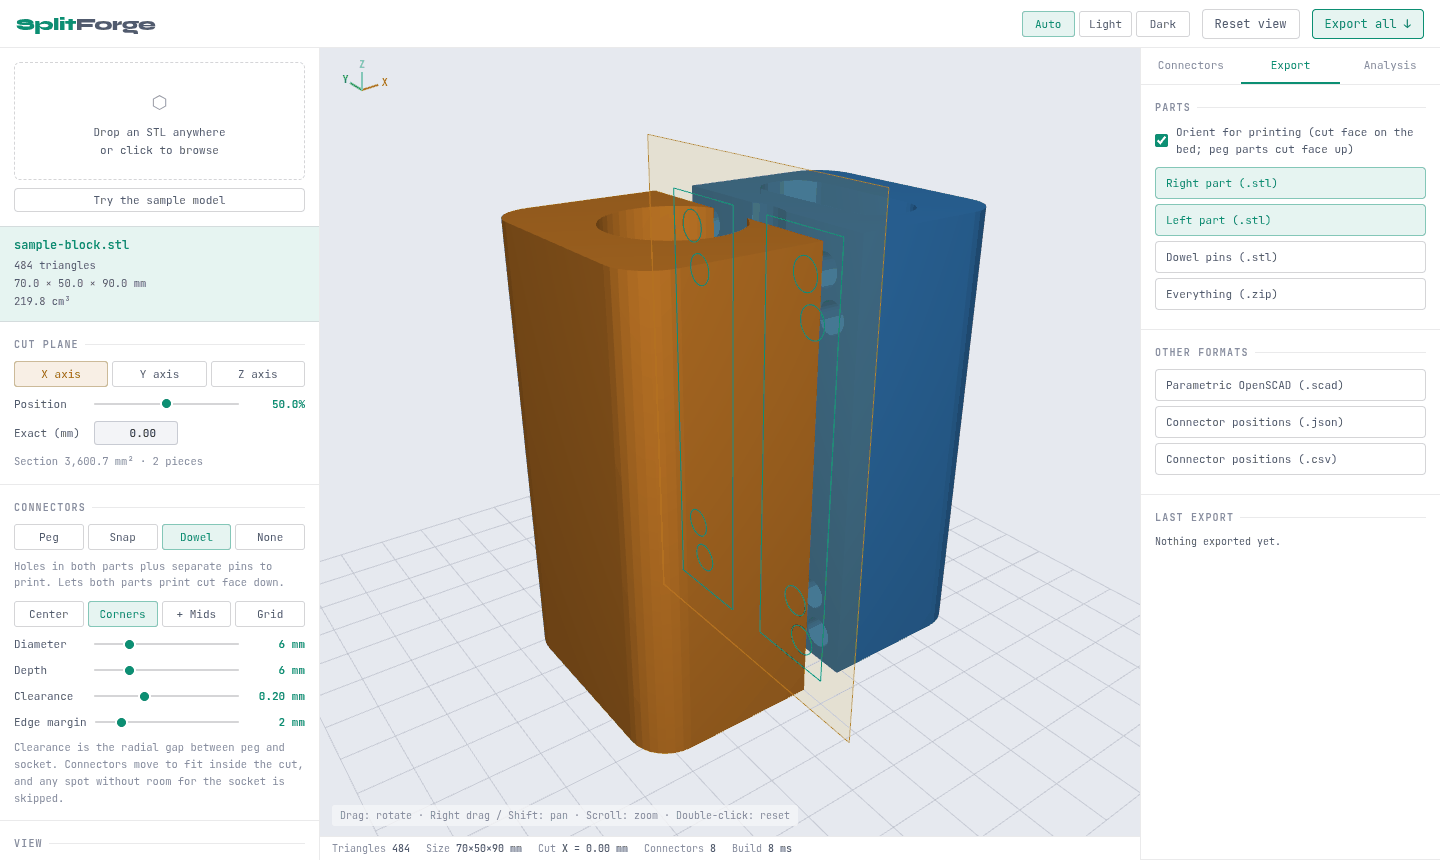
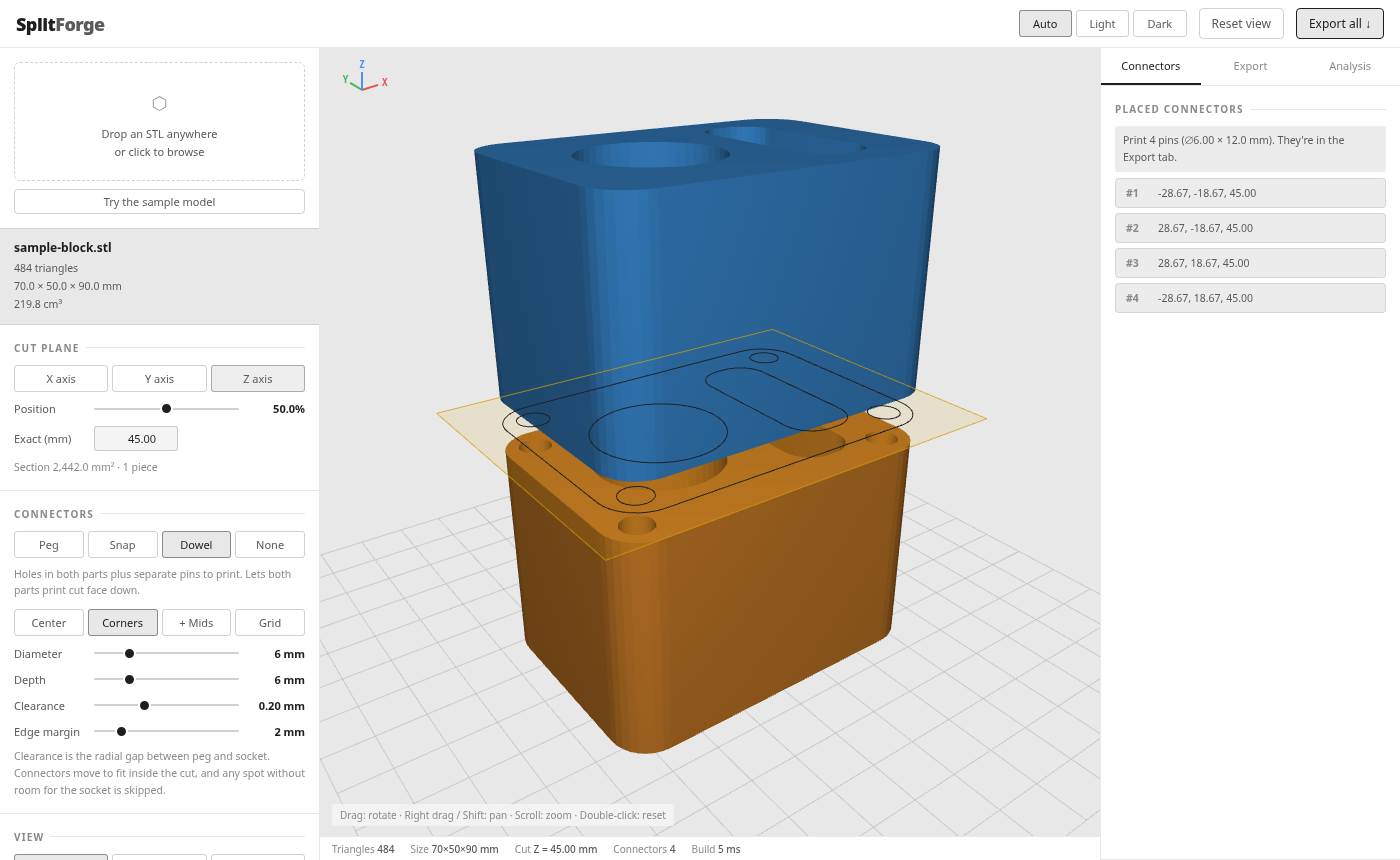
Go monochrome with the system font
Accents and tinted backgrounds become neutral, and Google Fonts is gone. Part,
cut plane and overhang colours stay fixed because they carry meaning.

diff --git a/index.html b/index.html
@@ -10,49 +10,46 @@
   // Apply the saved theme before first paint to avoid a flash of the wrong one.
   try { const t = localStorage.getItem('splitforge-theme'); if (t === 'light' || t === 'dark') document.documentElement.setAttribute('data-theme', t); } catch {}
 </script>
-<link rel="preconnect" href="https://fonts.googleapis.com">
-<link rel="preconnect" href="https://fonts.gstatic.com" crossorigin>
-<link href="https://fonts.googleapis.com/css2?family=JetBrains+Mono:wght@400;500;600&family=Syne:wght@600;700;800&display=swap" rel="stylesheet">
 <style>
 :root {
   color-scheme: light;
-  --bg: #f3f4f7; --bg2: #ffffff; --bg3: #eceef3;
-  --border: rgba(20, 24, 36, 0.09); --border2: rgba(20, 24, 36, 0.18);
-  --accent: #0b8f72; --accent-soft: rgba(11, 143, 114, 0.1); --accent-line: rgba(11, 143, 114, 0.45);
-  --accent2: #b86200; --accent2-soft: rgba(184, 98, 0, 0.1); --accent2-line: rgba(184, 98, 0, 0.45);
-  --text: #1b1e27; --text2: #535a6e; --text3: #858b9e;
+  --bg: #f4f4f4; --bg2: #ffffff; --bg3: #ececec;
+  --border: rgba(0, 0, 0, 0.09); --border2: rgba(0, 0, 0, 0.18);
+  --accent: #1e1e1e; --accent-soft: rgba(30, 30, 30, 0.1); --accent-line: rgba(30, 30, 30, 0.45);
+  --accent2: #5a5a5a; --accent2-soft: rgba(90, 90, 90, 0.1); --accent2-line: rgba(90, 90, 90, 0.45);
+  --text: #1e1e1e; --text2: #5a5a5a; --text3: #8a8a8a;
   --danger: #c93a26; --good: #1a8a55;
-  --overlay: rgba(243, 244, 247, 0.85);
-  --vp-bg: #e6e9ef; --part-pos: #3b8ed8; --part-neg: #e08a2c; --plane: #d39b00;
-  --section: #0b8f72; --grid: #6b7285; --overhang: #e5402a;
-  --font-display: 'Syne', system-ui, sans-serif;
-  --font-mono: 'JetBrains Mono', ui-monospace, monospace;
+  --overlay: rgba(244, 244, 244, 0.85);
+  --vp-bg: #e8e8e8; --part-pos: #3b8ed8; --part-neg: #e08a2c; --plane: #d39b00;
+  --section: #1e1e1e; --grid: #707070; --overhang: #e5402a;
+  --font-display: system-ui, sans-serif;
+  --font-mono: system-ui, sans-serif;
 }
 @media (prefers-color-scheme: dark) {
   :root:not([data-theme="light"]) {
     color-scheme: dark;
-    --bg: #0d0f14; --bg2: #13161e; --bg3: #1a1e2a;
+    --bg: #111111; --bg2: #181818; --bg3: #202020;
     --border: rgba(255, 255, 255, 0.07); --border2: rgba(255, 255, 255, 0.14);
-    --accent: #4df5c4; --accent-soft: rgba(77, 245, 196, 0.1); --accent-line: rgba(77, 245, 196, 0.45);
-    --accent2: #f5a84d; --accent2-soft: rgba(245, 168, 77, 0.1); --accent2-line: rgba(245, 168, 77, 0.45);
-    --text: #e8eaf0; --text2: #9297ad; --text3: #5d6278;
+    --accent: #e8e8e8; --accent-soft: rgba(232, 232, 232, 0.1); --accent-line: rgba(232, 232, 232, 0.45);
+    --accent2: #aaaaaa; --accent2-soft: rgba(170, 170, 170, 0.1); --accent2-line: rgba(170, 170, 170, 0.45);
+    --text: #e8e8e8; --text2: #9c9c9c; --text3: #6e6e6e;
     --danger: #ff6b55; --good: #4df5a0;
-    --overlay: rgba(13, 15, 20, 0.85);
-    --vp-bg: #0d0f14; --part-pos: #4fb3e8; --part-neg: #f0a64d; --plane: #ffc740;
-    --section: #4df5c4; --grid: #8a8fa8; --overhang: #ff4d3a;
+    --overlay: rgba(17, 17, 17, 0.85);
+    --vp-bg: #111111; --part-pos: #4fb3e8; --part-neg: #f0a64d; --plane: #ffc740;
+    --section: #e8e8e8; --grid: #909090; --overhang: #ff4d3a;
   }
 }
 :root[data-theme="dark"] {
   color-scheme: dark;
-  --bg: #0d0f14; --bg2: #13161e; --bg3: #1a1e2a;
+  --bg: #111111; --bg2: #181818; --bg3: #202020;
   --border: rgba(255, 255, 255, 0.07); --border2: rgba(255, 255, 255, 0.14);
-  --accent: #4df5c4; --accent-soft: rgba(77, 245, 196, 0.1); --accent-line: rgba(77, 245, 196, 0.45);
-  --accent2: #f5a84d; --accent2-soft: rgba(245, 168, 77, 0.1); --accent2-line: rgba(245, 168, 77, 0.45);
-  --text: #e8eaf0; --text2: #9297ad; --text3: #5d6278;
+  --accent: #e8e8e8; --accent-soft: rgba(232, 232, 232, 0.1); --accent-line: rgba(232, 232, 232, 0.45);
+  --accent2: #aaaaaa; --accent2-soft: rgba(170, 170, 170, 0.1); --accent2-line: rgba(170, 170, 170, 0.45);
+  --text: #e8e8e8; --text2: #9c9c9c; --text3: #6e6e6e;
   --danger: #ff6b55; --good: #4df5a0;
-  --overlay: rgba(13, 15, 20, 0.85);
-  --vp-bg: #0d0f14; --part-pos: #4fb3e8; --part-neg: #f0a64d; --plane: #ffc740;
-  --section: #4df5c4; --grid: #8a8fa8; --overhang: #ff4d3a;
+  --overlay: rgba(17, 17, 17, 0.85);
+  --vp-bg: #111111; --part-pos: #4fb3e8; --part-neg: #f0a64d; --plane: #ffc740;
+  --section: #e8e8e8; --grid: #909090; --overhang: #ff4d3a;
 }
 
 * { box-sizing: border-box; margin: 0; padding: 0; }
